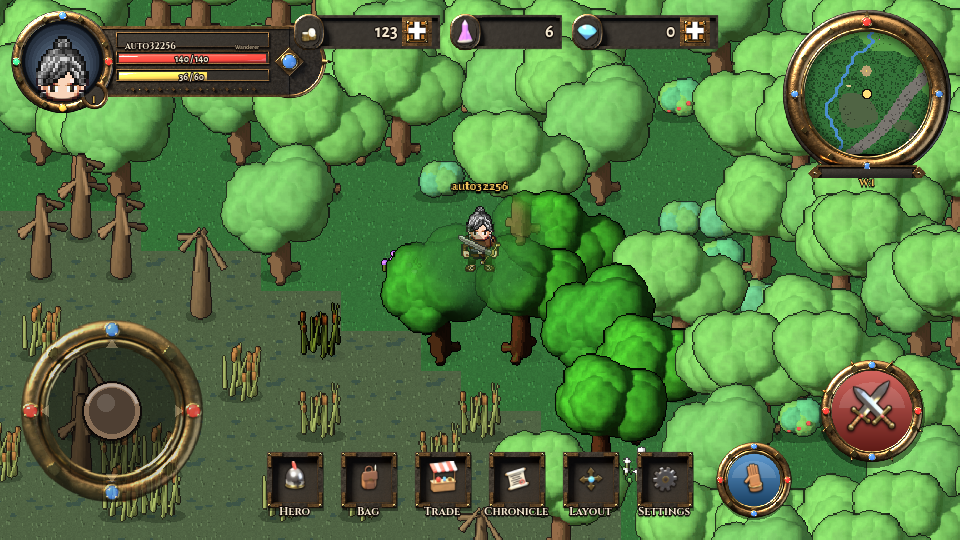
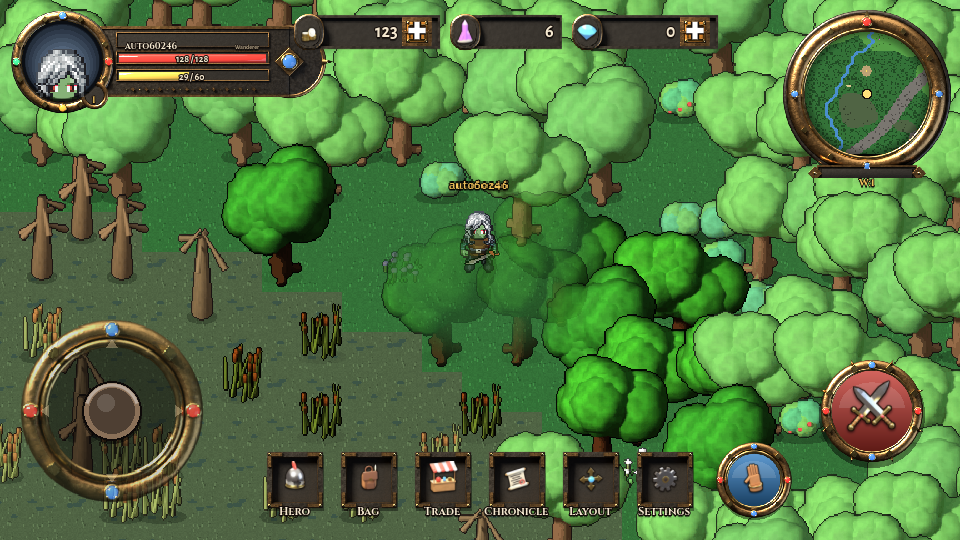
Larger see-through circle (3.5 tiles, softer edge)
Claude-Session: https://claude.ai/code/session_013aQaX27En85M7h59jPv4Y2

diff --git a/docs/ART_PIPELINE.md b/docs/ART_PIPELINE.md
@@ -45,7 +45,7 @@ tools/blender/build.sh          # حدود ۲ تا ۳ دقیقه روی CPU
   سایه** تا روی هر پسزمینهای خوانا باشند
   ([Medium: game icons from 3D](https://medium.com/@tatiananaji/how-to-create-game-icons-and-bundles-from-scratch-or-based-on-3d-model-48050dedba0f)،
   [Vagon](https://vagon.io/blog/how-to-turn-2d-icons-into-3d-renders-in-blender)).
-* **دایرهی نامرئی دور بازیکن**: یک دایرهی نامرئی (حدود ۲ تایل) همراه
+* **دایرهی نامرئی دور بازیکن**: یک دایرهی نامرئی (شعاع حدود ۳٫۵ تایل) همراه
   قهرمان حرکت میکند. هر درخت یا شیئی که جلوی بازیکن است و به این دایره
   برسد، فقط **داخل دایره** با لبهی نرم نیمهشفاف و کمی تیره میشود و بقیهاش
   همانطور پررنگ میماند؛ پس قهرمان هیچوقت پشت درخت گم نمیشود. این کار با
